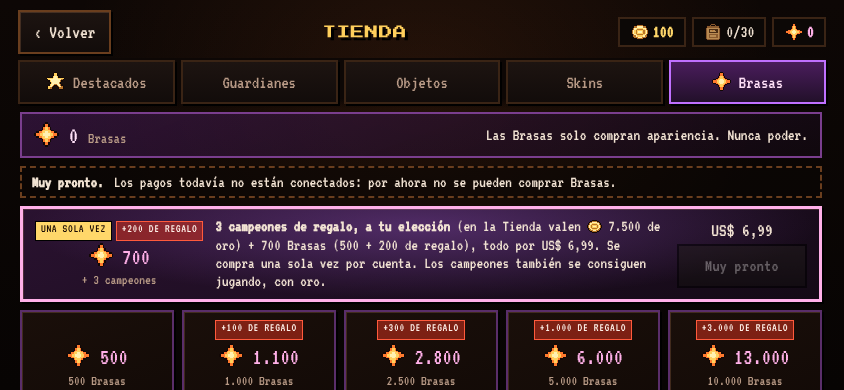
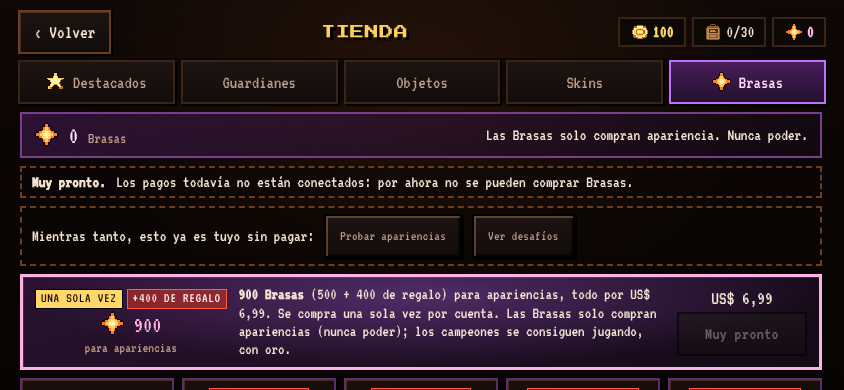
brasas-store: el pack vigente es v2 (900 Brasas, sin campeones) y el retirado no se ofrece; capturas y textos EN/PT
Claude-Session: https://claude.ai/code/session_01LxJEcjGHLngn4o4wPZAHs2

diff --git a/tools/collection/brasas-store.js b/tools/collection/brasas-store.js
@@ -71,12 +71,13 @@ const SECRET='secreto-de-prueba-brasas-0123';
   fs.mkdirSync(SHOTS,{recursive:true});await page.addStyleTag({content:'#qs-toasts{display:none!important}'});await page.screenshot({path:path.join(SHOTS,'hub-brasas-chip.png')});
   await page.locator('#hub-premium-btn').click();
   await page.locator('.shop-tab[data-shop-tab="brasas"].on').waitFor();checks++;
-  await page.locator('[data-brasas-pack="brasas_bienvenida"]').waitFor();checks++;
+  await page.locator('[data-brasas-pack="brasas_bienvenida_v2"]').waitFor();checks++;
+  ok(await page.locator('[data-brasas-pack="brasas_bienvenida"]').count()===0,'el pack de bienvenida con campeones (retirado) no se ofrece');
   const prices=await page.$$eval('.brasas-packs .brasas-pack',ns=>ns.map(n=>({id:n.dataset.brasasPack,price:n.querySelector('.brasas-pack-price').textContent.trim(),amt:n.querySelector('.brasas-pack-amt').textContent.trim(),bonus:(n.querySelector('.brasas-bonus')||{}).textContent||''})));
   assert.deepEqual(prices.map(p=>p.price),['US$ 4,99','US$ 9,99','US$ 24,99','US$ 49,99','US$ 99,99'],JSON.stringify(prices));checks++;
   ok(prices[1].bonus.includes('+100')&&prices[2].bonus.includes('+300')&&prices[3].bonus.includes('+1.000')&&prices[4].bonus.includes('+3.000')&&prices[2].amt.includes('2.800'),'bonus visible '+JSON.stringify(prices));
   const perUsd=await page.evaluate(()=>premiumPacks().filter(p=>!p.once).map(p=>(p.premium+p.bonus)/p.price.amount));ok(perUsd.every((v,i)=>!i||v>perUsd[i-1]),'valor por dólar creciente '+perUsd);
-  const wtxt=await page.locator('[data-brasas-pack="brasas_bienvenida"]').innerText();ok(/US\$ 6,99/.test(wtxt)&&/700/.test(wtxt)&&/\+200/.test(wtxt)&&/UNA SOLA VEZ/i.test(wtxt)&&/3 campeones de regalo/.test(wtxt)&&/7\.500/.test(wtxt),'bienvenida '+wtxt);
+  const wtxt=await page.locator('[data-brasas-pack="brasas_bienvenida_v2"]').innerText();ok(/US\$ 6,99/.test(wtxt)&&/900/.test(wtxt)&&/\+400/.test(wtxt)&&/UNA SOLA VEZ/i.test(wtxt)&&/apariencias/.test(wtxt)&&!/campeones? de regalo/.test(wtxt)&&!/7\.500/.test(wtxt),'bienvenida (solo Brasas, sin campeones) '+wtxt);
   // pagos sin pasarela: "Muy pronto", deshabilitado, sin compras simuladas
   ok(await page.locator('[data-brasas-buy]').count()===0,'sin botón de compra activo');
   const soon=page.locator('[data-brasas-soon]');ok(await soon.count()===6&&await soon.first().isDisabled()&&(await soon.first().innerText()).includes('Muy pronto'),'Muy pronto deshabilitado');
@@ -88,18 +89,18 @@ const SECRET='secreto-de-prueba-brasas-0123';
   await page.setViewportSize({width:844,height:390});
   // un webhook firmado acredita el Pack de bienvenida: el servidor deja de ofrecerlo
   process.env.PAYMENTS_PROVIDER='hmac';process.env.PAYMENTS_WEBHOOK_SECRET=SECRET;
-  const raw=JSON.stringify({pack:'brasas_bienvenida',userId,paymentId:'pay_browser_welcome'});
+  const raw=JSON.stringify({pack:'brasas_bienvenida_v2',userId,paymentId:'pay_browser_welcome'});
   const sig=crypto.createHmac('sha256',SECRET).update(raw).digest('hex');
   const hook=await request('POST','/api/payments/webhook',raw,undefined,{'x-horda-signature':sig});ok(hook.status===200&&!hook.j.duplicate,'webhook '+JSON.stringify(hook));
-  const again=await request('POST','/api/payments/webhook',JSON.stringify({pack:'brasas_bienvenida',userId,paymentId:'pay_browser_welcome_2'}),undefined,{'x-horda-signature':crypto.createHmac('sha256',SECRET).update(JSON.stringify({pack:'brasas_bienvenida',userId,paymentId:'pay_browser_welcome_2'})).digest('hex')});
+  const again=await request('POST','/api/payments/webhook',JSON.stringify({pack:'brasas_bienvenida_v2',userId,paymentId:'pay_browser_welcome_2'}),undefined,{'x-horda-signature':crypto.createHmac('sha256',SECRET).update(JSON.stringify({pack:'brasas_bienvenida_v2',userId,paymentId:'pay_browser_welcome_2'})).digest('hex')});
   ok(again.status===200&&again.j.alreadyBought===true,'segundo pago de bienvenida no acredita');
   await page.evaluate(()=>premiumRefresh(true));
-  await page.locator('[data-brasas-pack="brasas_bienvenida"]').waitFor({state:'detached'});checks++;
-  ok(/\b700\b/.test(await page.locator('.brasas-bal').innerText()),'saldo 700');
+  await page.locator('[data-brasas-pack="brasas_bienvenida_v2"]').waitFor({state:'detached'});checks++;
+  ok(/\b900\b/.test(await page.locator('.brasas-bal').innerText()),'saldo 900');
   ok(await page.locator('[data-brasas-buy]').count()===5,'con pasarela: botones Comprar');
-  // el pago ya está acreditado y quedan 3 elecciones: la Tienda ofrece reclamarlos (y abre la pantalla una vez)
-  await page.locator('#welcome-picks .wp-panel').waitFor();checks++;await page.locator('#welcome-picks [data-wp-close]').click();
-  await page.locator('.wp-banner [data-wp-open]').waitFor();ok(/Reclamar mis 3 campeones/i.test(await page.locator(".wp-banner").innerText()),'cartel de reclamo '+await page.locator('.wp-banner').innerText());
+  // el pack vigente NO da campeones: la Tienda no abre la pantalla de elección ni deja el cartel de reclamo (eso es solo del pack retirado: tools/collection/welcome-picks.js)
+  await page.waitForTimeout(600);
+  ok(await page.locator('#welcome-picks').count()===0&&await page.locator('.wp-banner').count()===0,'sin elección de campeones tras comprar el pack vigente');
   delete process.env.PAYMENTS_PROVIDER;delete process.env.PAYMENTS_WEBHOOK_SECRET;
   await page.evaluate(()=>premiumRefresh(true));await page.locator('[data-brasas-soon]').first().waitFor();checks++;
   // otras pestañas siguen andando

diff --git a/tools/i18n/tr/t376.py b/tools/i18n/tr/t376.py
@@ -23,3 +23,5 @@ add("Ojo Certero: +5% prob. de crítico","Keen Eye: +5% crit chance","Olho Certe
 add("◇ +5% resistencia física","◇ +5% physical resistance","◇ +5% de resistência física")
 add("Tu horda sale sola por tres carriles. Derribá torres; con una inhibidora caída, el cristal queda expuesto.","Your horde marches out by itself along three lanes. Take down towers; once an inhibitor falls, the crystal is exposed.","Sua horda sai sozinha por três corredores. Derrube torres; com um inibidor caído, o cristal fica exposto.")
 add("Vencé héroes rivales para ganar oro. Eclipse a los 6 min; a los 12 gana quien tenga más torres y vida.","Defeat rival heroes to earn gold. Eclipse at 6 min; at 12, whoever has more towers and health wins.","Derrote heróis rivais para ganhar ouro. Eclipse aos 6 min; aos 12 vence quem tiver mais torres e vida.")
+add("para apariencias","for looks","para aparências")
+add("(500 + 400 de regalo) para apariencias, todo por US$ 6,99. Se compra una sola vez por cuenta. Las Brasas solo compran apariencias (nunca poder); los campeones se consiguen jugando, con oro.","(500 + 400 bonus) for looks, all for US$ 6.99. Bought once per account. Embers only buy looks (never power); champions are earned by playing, with gold.","(500 + 400 de brinde) para aparências, tudo por US$ 6,99. Compra única por conta. As Brasas só compram aparências (nunca poder); os campeões se conseguem jogando, com ouro.")
